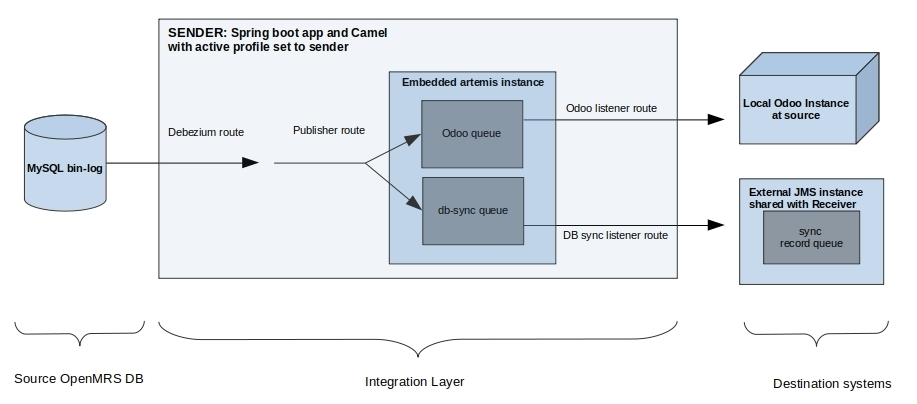
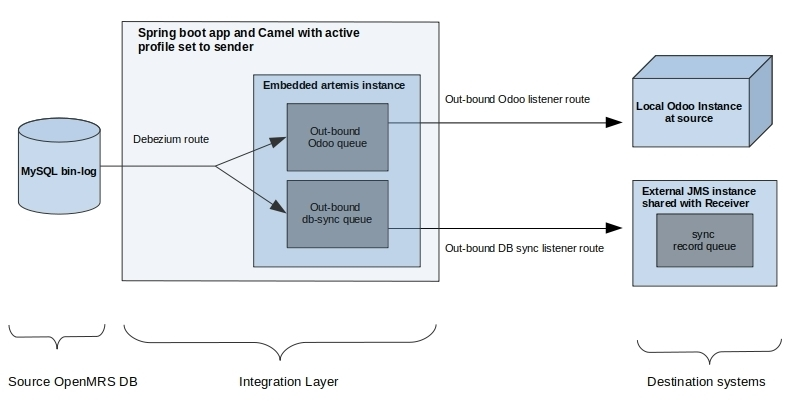
Updated readme, removed publisher route in sender and updated images

diff --git a/README.md b/README.md
@@ -14,21 +14,69 @@ Each released minor version of OpenMRS will lead to a maintenance branch.
 For example if you intend to synchronise data between an OpenMRS instance running on Core 2.4.x and another OpenMRS instance running on Core 2.3.x, you will use the appropriate build of the OpenMRS Camel component on each end.
 
 # Sample Configuration for Testing
-The application is designed to run in 2 modes i.e. the sender and receiver as show in the diagrams below.
-
-#### Sender
-
-  ![Sender Diagram](sample/resources/sender.jpg)
-    
-#### Receiver
-
-  ![Receiver Diagram](sample/resources/receiver.jpg) 
+The application is designed to run in one of 2 modes i.e. sender or receiver, you decide one of these via spring's JVM 
+property **spring.profiles.active** with the value set to sender or receiver. The 2 OpenMRS installations that we need 
+to sync between each has its own local Odoo system to integrate with, Odoo is an ERP system. 
 
 A sender and a receiver directory are created to simulate a network between a remote database and a central database. They are both located in the **sample/sample_springboot_setup** directory.
 Please refer to the [Sample configuration README.md](./sample/sample_springboot_setup/README.md) for details about its configuration.
 
 The OpenMRS dbSync can be used with any Camel endpoint between the sender and the receiver including ActiveMQ via `jms` queues. A sample configuration can be found in the **/sample/sample_activemq_setup** directory.
 Please refer to the [Configure ActiveMQ README.md](./sample/sample_activemq_setup/README.md) for details about its configuration.
+
+It's very important to note that technically this is DB to DB sync happening outside of the OpenMRS application, this has implications e.g if you sync something like patient, the search index needs to be triggered for a rebuild,
+the current dbsync route internally triggers this rebuild for all known indexed entities.
+
+### Sender
+
+  ![Sender Diagram](sample/resources/sender.jpg)
+
+As seen from the diagram above, the sender is really a spring boot application at the core running with the active 
+profile set to sender, it uses Apache camel to route messages to specific targets and uses [debezium](https://debezium.io) 
+to track DB changes in source OpenMRS database by reading the mysql binary log which MUST be enabled with the format set 
+to row, please referto inline documentation of the various configuration properties in the sender application.properties 
+in the sample/sample_springboot_setup/sender folder.
+
+Note that the default application that is bundled with the project comes with dockerized MySQL databases where the
+MySQL binlog is preconfigured ONLY for remote instance because it assumes a one-way sink from remote to central.
+
+When the application is fired up in sender mode, the debezium route starts the debezium component which will periodically 
+read entries in the mysql binlog of the remote OpenMRS MySQL DB, it constructs a SyncRecord instance which has 3 fields,
+the source table name, the uuid of the affected entity and the operation(c, u, d) for Create, Update or Delete respectively.
+The debezium route calls the publisher route with the body set to the SyncRecord instance, the publisher route pushes the
+sync record into an embedded active artemis(activeMQ) instance to all configured message queues, by default the application 
+has 2 out-bound queues, one for the out-bound DB sync route and the other for the local Odoo system. In theory, you can 
+register as many queues as the systems that need to be notified of changes in the OpenMRS DB, the sender's application.properties 
+file has a property named **sync-record.destinations** which takes a comma separated list of queue names to which the 
+sync record will be published, and you would have to add a consumer for each registered queue to feed another system. 
+The out-bound DB sync listener route consumes message from its queue, loads the entity by its uuid, serialize it into a 
+custom format and then publishes the payload into a sync record message queue in another external message broker that is 
+known to the team administering OpenMRS instance's MySQL DB that we need to sync to. The out-bound Odoo listener route 
+consumes message from its queue too, does its custom processing and then feeds the configured Odoo system.
+    
+### Receiver
+
+  ![Receiver Diagram](sample/resources/receiver.jpg) 
+
+As seen from the diagram above, the receiver is exactly the same spring boot application with Apache camel but instead 
+running with the active profile set to receiver at another physical location with an OpenMRS installaton.
+
+Recall from the sender documentation above, that the DB sync listener route ends by publishing the payload of the entity 
+to be synced into a message broker known to the team administering the OpenMRS instance's DB we need to sync to, this 
+where the receiver starts, its main receiver route connects to this message broker MOST likely over the internet and 
+consumes messages out of sync record queue and pushes the payload into the embedded active artemis(activeMQ) instance to 
+all configured message queues, by default the application has 2 in-bound queues, one for the in-bound DB sync route and 
+the other for a local Odoo system. In theory, you can register as many queues as the systems that need to be notified of 
+the in-bound entity payload, the sender's application.properties file has a property named **entity-payload.destinations** 
+which takes a comma separated list of queue names to which the entity payload will be published, and you would have to 
+add a consumer for each registered queue to feed another system. The in-bound DB sync listener route consumes message 
+from its queue and syncs it into the destination OpenMRS instance's MySQL DB. The in-bound Odoo listener route consumes 
+message from its queue too, does its custom processing and then feeds the configured Odoo system.
+
+**NOTE:** In this default setup since it's a one-way sync, MySQL bin-log isn't turned on for the destination MySQL DB, 
+if you need to do 2 way sync, you can turn it on for the destination DB too, but you must be wondering if syncing an 
+entity won't get us into an infinite sync loop, this is taken care of by disabling mysql bin logging for the session on 
+the connection objects used when running in receiver mode.
 
 # File synchronization
 It is also possible to synchronize the content of a directory. The directory sync is performed via a different Camel route, but files will be transferred through the same Camel endpoint as the entities.
